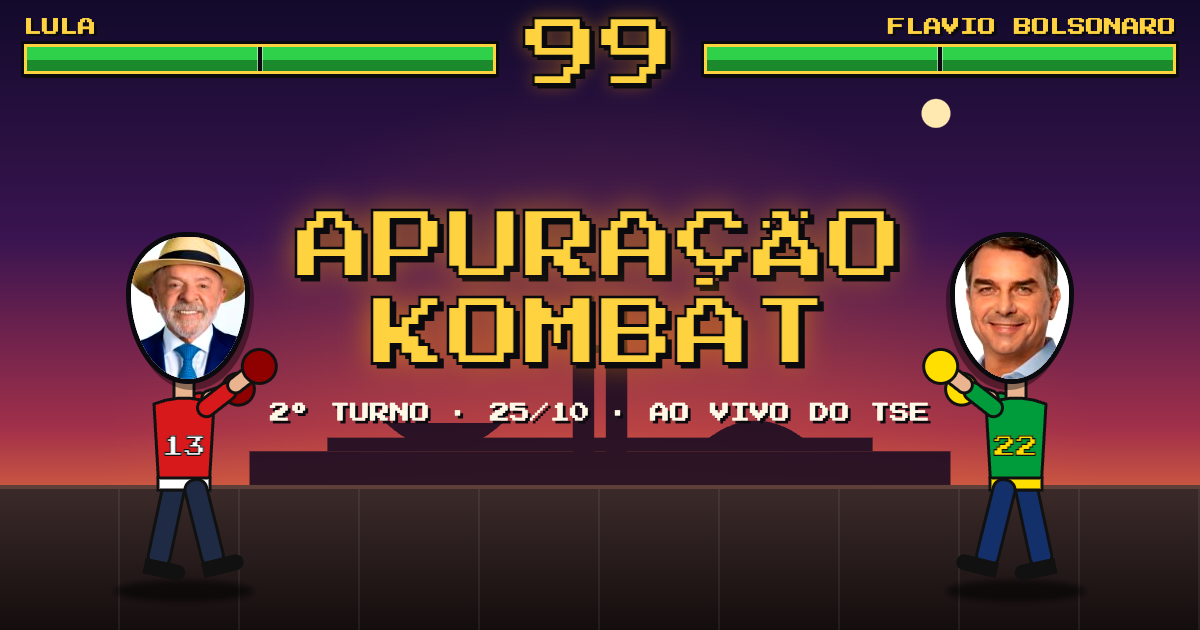
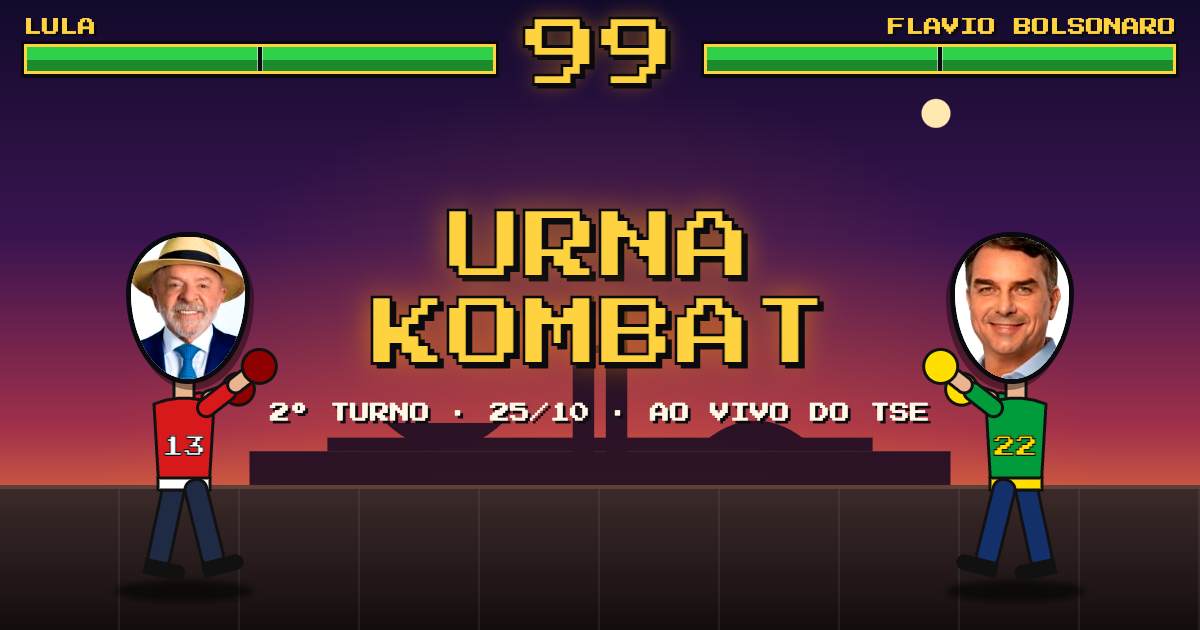
Renomeia para Urna Kombat (título, OG, imagem de compartilhamento, Pix)
Claude-Session: https://claude.ai/code/session_0175yBzyqz4Sn3GfzV21RyjS

Changed region(s): [[0.4933, 0.3016, 0.7708, 0.4825], [0.2158, 0.3016, 0.37, 0.4524]]

diff --git a/index.html b/index.html
@@ -3,21 +3,22 @@
   <head>
     <meta charset="UTF-8" />
     <meta name="viewport" content="width=device-width, initial-scale=1.0" />
-    <title>Apuração Kombat</title>
+    <title>Urna Kombat · 2º turno 2026</title>
     <meta name="description" content="A apuração do 2º turno presidencial de 2026 como uma luta de fliperama, com dados oficiais do TSE." />
     <!-- URLs absolutas: precisam bater com o domínio do GitHub Pages -->
     <meta property="og:type" content="website" />
+    <meta property="og:site_name" content="Urna Kombat" />
     <meta property="og:url" content="https://urnakombat.com.br/" />
-    <meta property="og:title" content="Apuração Kombat · 2º turno 2026" />
+    <meta property="og:title" content="Urna Kombat · 2º turno 2026" />
     <meta property="og:description" content="Lula x Flávio Bolsonaro: a apuração oficial do TSE ao vivo, golpe a golpe, como uma luta de fliperama." />
-    <meta property="og:image" content="https://urnakombat.com.br/og.png" />
+    <meta property="og:image" content="https://urnakombat.com.br/og.png?v=2" />
     <meta property="og:image:width" content="1200" />
     <meta property="og:image:height" content="630" />
     <meta property="og:locale" content="pt_BR" />
     <meta name="twitter:card" content="summary_large_image" />
-    <meta name="twitter:title" content="Apuração Kombat · 2º turno 2026" />
+    <meta name="twitter:title" content="Urna Kombat · 2º turno 2026" />
     <meta name="twitter:description" content="Lula x Flávio Bolsonaro: a apuração oficial do TSE ao vivo, golpe a golpe, como uma luta de fliperama." />
-    <meta name="twitter:image" content="https://urnakombat.com.br/og.png" />
+    <meta name="twitter:image" content="https://urnakombat.com.br/og.png?v=2" />
     <link rel="preconnect" href="https://fonts.googleapis.com" />
     <link rel="preconnect" href="https://fonts.gstatic.com" crossorigin />
     <link href="https://fonts.googleapis.com/css2?family=Press+Start+2P&display=swap" rel="stylesheet" />

diff --git a/src/main.ts b/src/main.ts
@@ -352,7 +352,7 @@ langButtons.forEach((b) =>
 
 // ---------- Pix ----------
 
-const pixCode = pixPayload(PIX_KEY, 'APURACAO KOMBAT', 'BRASILIA');
+const pixCode = pixPayload(PIX_KEY, 'URNA KOMBAT', 'BRASILIA');
 const pixDialog = $<HTMLDialogElement>('#pix-dialog');
 let qrRendered = false;
 
@@ -437,7 +437,7 @@ function renderOgScene() {
   createFighters(s);
   renderHud(s);
   $('#stats-0').textContent = $('#stats-1').textContent = '';
-  $('#announcer').innerHTML = `APURAÇÃO<br>KOMBAT<small>${t('ogSubtitle')}</small>`;
+  $('#announcer').innerHTML = `URNA<br>KOMBAT<small>${t('ogSubtitle')}</small>`;
   $('#announcer').className = 'sticky';
 }
 

diff --git a/src/pix.test.ts b/src/pix.test.ts
@@ -9,7 +9,7 @@ describe('pixPayload', () => {
   });
 
   it('inclui a chave do projeto', () => {
-    const p = pixPayload(PIX_KEY, 'APURACAO KOMBAT', 'BRASILIA');
+    const p = pixPayload(PIX_KEY, 'URNA KOMBAT', 'BRASILIA');
     expect(p).toContain(PIX_KEY);
     expect(p).toMatch(/6304[0-9A-F]{4}$/);
   });

diff --git a/vite.config.ts b/vite.config.ts
@@ -1,4 +1,4 @@
 import { defineConfig } from 'vite';
 
-// base relativa: funciona tanto em usuario.github.io/apuracao-kombat/ quanto num domínio próprio
+// base relativa: funciona tanto em usuario.github.io/repositorio/ quanto num domínio próprio
 export default defineConfig({ base: './' });
